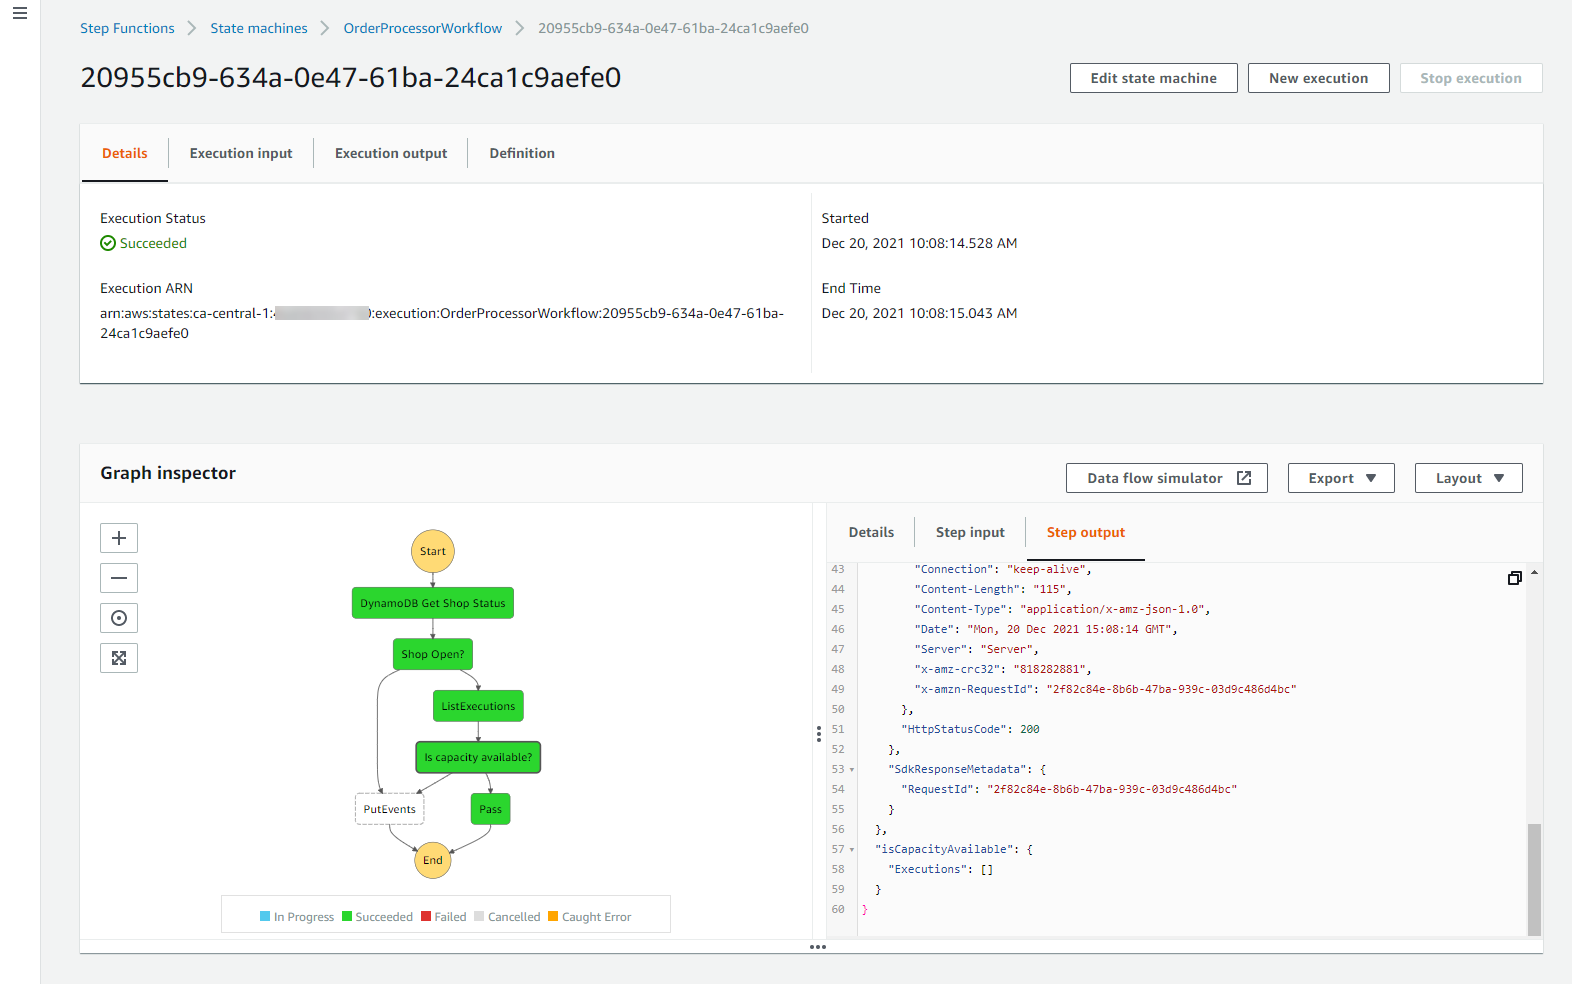
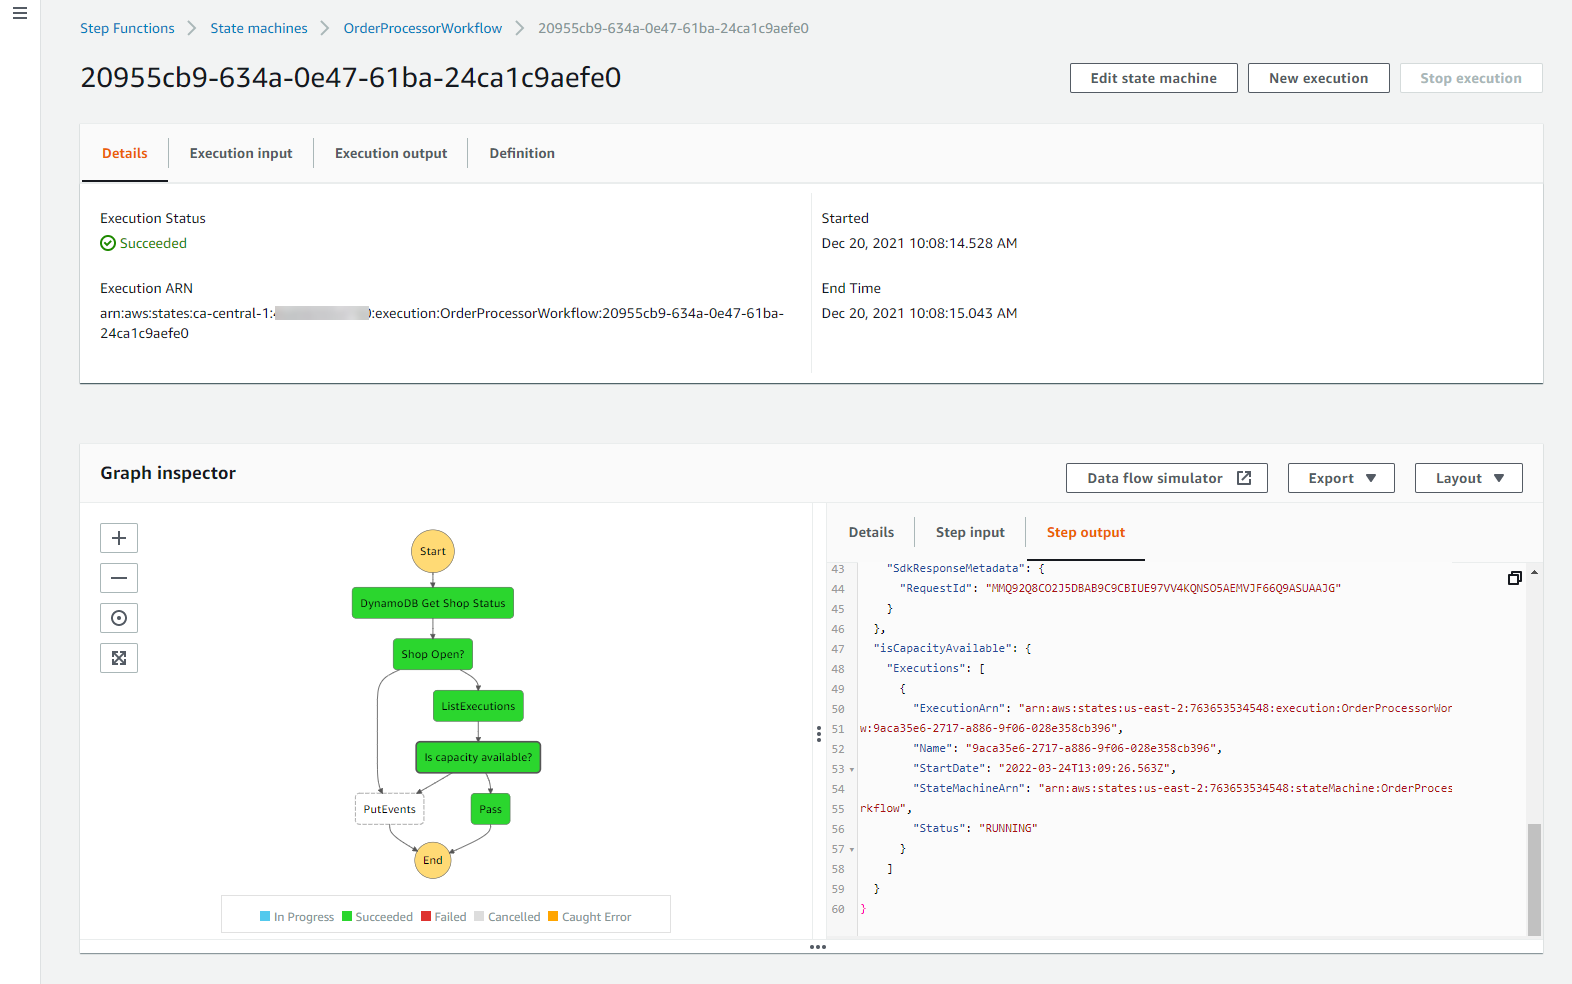
Instructions updates

Changed region(s): [[0.5611, 0.5488, 0.9039, 0.8841]]

diff --git a/instructions/content/1b-workflow/6-WaitForOrder/_index.en.md b/instructions/content/1b-workflow/6-WaitForOrder/_index.en.md
@@ -54,13 +54,13 @@ In this section, you add an EventBridge PutEvents state that emits an event when
 ```
 ![Drag UpdateItem to designer](../images/se-mod1-wait2.png)
 
-3. Choose the *Output* tab. Here, you will modify the state's output to include the result from the DynamoDB query:
+6. Choose the *Output* tab. Here, you will modify the state's output to include the result from the DynamoDB query:
 - Check the box *Add original input to output using ResultPath*.
-- In the dropdown, select *Discard result and keep original text*.
+- In the dropdown, select *Discard result and keep original input*.
 
 ![Drag UpdateItem to designer](../images/se-mod1-wait3.png)
 
-4. Choose the *Error handling* tab. Here, you add a catch state to handle any errors. In *Catch errors*, choose **Add new catcher**.
+7. Choose the *Error handling* tab. Here, you add a catch state to handle any errors. In *Catch errors*, choose **Add new catcher**.
 - For *Comment*, enter `Customer timed out`.
 - For *Errors*, select **States.Timeout**.
 - For *Fallback state*, select **Add new state**.
@@ -68,13 +68,13 @@ In this section, you add an EventBridge PutEvents state that emits an event when
 
 ![Drag UpdateItem to designer](../images/se-mod1-wait4.png)
 
-5. On the *Error handling tab*, for *Heartbeat*, enter `900` seconds. This means that the workflow will time out if the callback is not received within 15 minutes.
+8. On the *Error handling tab*, for *Heartbeat*, enter `900` seconds. This means that the workflow will time out if the callback is not received within 15 minutes.
 
-6. With the *Flow* tab selected on the left, drag the Pass state action from the list to the empty *Drop state here* placeholder in the designer.
+9. With the *Flow* tab selected on the left, drag the Pass state action from the list to the empty *Drop state here* placeholder in the designer.
 
 ![Drag UpdateItem to designer](../images/se-mod1-wait5b.png)
 
-7. With the state selected, the attribute panel on the right shows the configuration for this state.
+10. With the state selected, the attribute panel on the right shows the configuration for this state.
 - In the *Configuration tab*, for *State Name*, enter `Customer timedout`.
 - In the *Output tab*, for *Result*, enter `"Customer timedout"`.
 
@@ -170,7 +170,7 @@ In this section, you will test the changes to the workflow.
 
 ![Execution results](../images/se-mod1-wait12.png)
 
-5. Use the SendTaskSuccess API callback to the workflow with the task token and continue execution. In a terminal, enter the following command, replacing `YOUR_TASK_TOKEN` with the token value:
+5. Use the SendTaskSuccess API callback to the workflow with the task token and continue execution. In the Cloud9 tab, in the terminal panel, enter the following command, replacing `YOUR_TASK_TOKEN` with the token value:
 
 ```
 aws stepfunctions send-task-success  --task-output '{"orderId":1}' --task-token YOUR_TASK_TOKEN
@@ -181,7 +181,7 @@ Execution continues to the next state waiting for a callback.
 
 6. In the *Execution event history* panel, open the *TaskScheduled* event for *Emit - Awaiting completion TT*. This displays the payload for this event. Copy the *TaskToken* value to a scratch pad.
 
-7. Use the SendTaskSuccess API callback to the workflow with the task token and continue execution. In a terminal, enter the following command, replacing `YOUR_TASK_TOKEN` with the token value:
+7. Use the SendTaskSuccess API callback to the workflow with the task token and continue execution. In the Cloud9 tab, in the terminal panel, enter the following command, replacing `YOUR_TASK_TOKEN` with the token value:
 
 ```
 aws stepfunctions send-task-success  --task-output '{"orderId":1}' --task-token YOUR_TASK_TOKEN

diff --git a/instructions/content/1-workflow/4-Capacity/_index.en.md b/instructions/content/1-workflow/4-Capacity/_index.en.md
@@ -42,7 +42,7 @@ In this section, you use an AWS SDK integration in Step Functions to query the s
 ```
 ![Drag GetItem to designer](../images/se-mod1-capacity3.png)
 
-3. Choose the *Output* tab. Here, you will modify the state's output to include the result from the SDK call:
+6. Choose the *Output* tab. Here, you will modify the state's output to include the result from the SDK call:
 - Check the box *Add original input to output using ResultPath*.
 - Ensure *Combine original input with result* is selected in the dropdown, then enter `$.isCapacityAvailable` in the value textbox.
 
@@ -62,7 +62,7 @@ The workflow must branch logic depending on the value returned by the ListExecut
 
 ![Edit choice state](../images/se-mod1-capacity6.png)
 
-5. In the *Conditions for rule #1* panel, specify the rule that will determine if the store is closed:
+3. In the *Conditions for rule #1* panel, specify the rule that will determine if the store is closed:
 - For *Not*, **leave blank** in the dropdown.
 - For *Variable*, enter `$.isCapacityAvailable.Executions[20]`.
 - For *Operator*, select **is present**.
@@ -72,15 +72,15 @@ The workflow must branch logic depending on the value returned by the ListExecut
 
 ![Edit conditions](../images/se-mod1-capacity7.png)
 
-6. Change *Then next state is* to **EventBridge PutEvents**. Choose **Close**.
+4. Change *Then next state is* to **EventBridge PutEvents**. Choose **Close**.
 
 ![Edit conditions](../images/se-mod1-capacity8.png)
 
-7. For *State name*, enter **Is capacity available?**.
+5. For *State name*, enter `Is capacity available?`.
 
 ![Edit conditions](../images/se-mod1-capacity9.png)
 
-8. Check the Amazon States Language (ASL) definition by choosing the **Definition** toggle button above the designer. The ASL appears as:
+6. Check the Amazon States Language (ASL) definition by choosing the **Definition** toggle button above the designer. The ASL appears as:
 
 ```
 {
@@ -153,13 +153,13 @@ The workflow must branch logic depending on the value returned by the ListExecut
   }
 }
 ```
-9. Choose **Apply and exit**.
+7. Choose **Apply and exit**.
 
-10. In the *Edit OrderProcessorWorkflow* page, choose **Save**.
+8. In the *Edit OrderProcessorWorkflow* page, choose **Save**.
 
 ![Drag GetItem to designer](../images/se-mod1-capacity10.png)
 
-11. In the *IAM role* popup, choose **Save anyway**. The IAM role you are using was deployed in the setup module and has the necessary permissions.
+9. In the *IAM role* popup, choose **Save anyway**. The IAM role you are using was deployed in the setup module and has the necessary permissions.
 
 ![IAM role warning](../images/iam-role-warning.png)
 
@@ -176,7 +176,7 @@ In this section, you will test the changes to the workflow.
 
 ![Execution results](../images/se-mod1-capacity11.png)
 
-3. Choose the *Step output* on the right side to see the output path for the choice state. In this, the Executions array in the isCapacityAvailable attribute is empty. This means there are no active executions, so there is capacity available, causing the workflow to go to the pass state.
+3. Choose the *Step output* on the right side to see the output path for the choice state. In this case, the Executions array in the isCapacityAvailable attribute shows one item. This means there is one active execution, so there is capacity available, causing the workflow to go to the pass state.
 
 ### Recap
 

diff --git a/instructions/content/1-workflow/3-ShopOpen/_index.en.md b/instructions/content/1-workflow/3-ShopOpen/_index.en.md
@@ -78,11 +78,15 @@ The workflow must branch logic depending on the value read from the DynamoDB tab
 
 ![Drag Pass state to designer](../images/se-mod1-open8.png)
 
-4. You have now defined a logic branch where one result routes to EventBridge and the other to the pass state. Next, define the decision logic in the choice state. Click on the choice state to open its attributes in the right side panel. For *Rule #1*, click on the edit icon. Choose **Add conditions**.
+4. You have now defined a logic branch where one result routes to EventBridge and the other to the pass state. Next, define the decision logic in the choice state. Click on the choice state to open its attributes in the right side panel. For *Rule #1*, click on the edit icon.
+
+![Edit rule icon](../images/se-mod1-edit-rule.png)
+
+5. Choose **Add conditions**.
 
 ![Edit choice state](../images/se-mod1-open9.png)
 
-5. In the *Conditions for rule #1* panel, specify the rule that will determine if the store is closed:
+6. In the *Conditions for rule #1* panel, specify the rule that will determine if the store is closed:
 - For *Not*, select **NOT** in the dropdown.
 - For *Variable*, enter `$.GetStore.Item.storeOpen.BOOL`. This JSONPath syntax specifies the storeOpen Boolean attribute from the DynamoDB query response.
 - For *Operator*, select **is equal to**.
@@ -91,11 +95,11 @@ The workflow must branch logic depending on the value read from the DynamoDB tab
 
 ![Edit conditions](../images/se-mod1-open10.png)
 
-6. For *State name*, add **Shop Open?**.
+7. For *State name*, add `Shop Open?`.
 
 ![Edit state name](../images/se-mod1-open11.png)
 
-7. Check the Amazon States Language (ASL) definition by choosing the **Definition** toggle button above the designer. The ASL appears as:
+8. Check the Amazon States Language (ASL) definition by choosing the **Definition** toggle button above the designer. The ASL appears as:
 
 ```
 {
@@ -146,13 +150,13 @@ The workflow must branch logic depending on the value read from the DynamoDB tab
   }
 }
 ```
-8. Choose **Apply and exit**.
+9. Choose **Apply and exit**.
 
 ![Drag GetItem to designer](../images/se-mod1-open12.png)
 
-9. In the *Edit OrderProcessorWorkflow* page, choose **Save**.
+10. In the *Edit OrderProcessorWorkflow* page, choose **Save**.
 
-10. In the *IAM role* popup, choose **Save anyway**. The IAM role you are using was deployed in the setup module and has the necessary permissions.
+11. In the *IAM role* popup, choose **Save anyway**. The IAM role you are using was deployed in the setup module and has the necessary permissions.
 
 ![IAM role warning](../images/iam-role-warning.png)
 

diff --git a/instructions/content/1b-workflow/8-Testing/_index.en.md b/instructions/content/1b-workflow/8-Testing/_index.en.md
@@ -118,13 +118,13 @@ While Step Functions can scale to ten of thousands of current executions, the co
 
 2. From the left-hand menu, select *State machine* and choose **OrderProcessorWorkflow** from the list. Copy the ARN value to a scratchpad - you will need this value later. Choose **Edit**.
 
-3. Use the [StartExecution API](https://docs.aws.amazon.com/cli/latest/reference/stepfunctions/start-execution.html) to start a new workflow. In a terminal, enter the following command, replacing `YOUR_STATE_MACHINE_ARN` with the ARN copied in the previous step:
+3. Use the [StartExecution API](https://docs.aws.amazon.com/cli/latest/reference/stepfunctions/start-execution.html) to start a new workflow. In the Cloud9 tab, in the terminal panel, enter the following command, replacing `YOUR_STATE_MACHINE_ARN` with the ARN copied in the previous step:
 
 ```
 aws stepfunctions start-execution --state-machine-arn YOUR_STATE_MACHINE_ARN --input "{\"detail\":{\"orderId\":\"1\",\"userId\":\"testuser\"}}"
 ```
 
-4. Run the same command 20 more times. The capacity configured for the shop is 20. On the 21st execution, the capacity check in the workflow will fail.
+4. Run the same command 25 more times. The capacity configured for the shop is 20. After the 20th execution, the capacity check in the workflow will fail for subsequent requests.
 
 5. In the state machine view in the console, the *Graph inspector* shows the workflow path taken as a result of capacity being unavailable:
 

diff --git a/instructions/content/0-setup/5-deploy/_index.en.md b/instructions/content/0-setup/5-deploy/_index.en.md
@@ -86,7 +86,7 @@ While you wait, here's what the custom parameters do:
 
 - **AppName**: Used by all the resources to prefix variables and provide common naming, to make it easier to identify everything used by the application.
 - **Service**: The name of this service stack.
-- **LogRetentionInDays**: Defines how many days CloudWatch should keep log files. By default, this has no limit.
+- **LogRetentionInDays**: Defines how many days CloudWatch should keep log files. By default, this has no limit. The default used in this stack is 14 days.
 - **Source**: The source name used by events in this application. This helps us filter only for events produced by microservices in this workload.
 
 The *TimeInterval*, *CodeLength*, and *TokensPerBucket* values define how the barcode functionality works in the Display App in the frontend. With the default values here, the barcode represents a 10-character unique code that provides 10 drinks every 5 minutes. We'll cover this in more detail in the frontends section.
@@ -100,7 +100,7 @@ Copy these outputs from the stack to a scratch file, notepad or text editor for 
 5. SAM has now used CloudFormation to deploy a stack of backend resources which will be used for the rest of the workshop.
 
 * Multiple Lambda functions
-* 3 S3 buckets
+* An S3 bucket
 * A DynamoDB table
 * A Cognito UserPool
 * An AWS IoT thing

diff --git a/instructions/content/1b-workflow/5-OrderNumber/_index.en.md b/instructions/content/1b-workflow/5-OrderNumber/_index.en.md
@@ -53,8 +53,6 @@ In this section, you use a DynamoDB integration in Step Functions to increment a
 ![Configure UpdateItem](../images/se-mod1-ordernum2.png)
 
 6. Choose the *Output* tab. Here, you will modify the state's output to include the result from the DynamoDB query:
-- Check the box *Add original input to output using ResultPath*.
-- In the value textbox, enter `$.Order.Payload`.
 - Check the box *Transform result with ResultSelector*.
 - In the value textbox, enter:
 
@@ -63,6 +61,9 @@ In this section, you use a DynamoDB integration in Step Functions to increment a
   "orderNumber.$": "$.Attributes.IDvalue.N"
 }
 ```
+- Check the box *Add original input to output using ResultPath*.
+- Ensure the dropdown is set to *Combine original input with result*.
+- In the value textbox, enter `$.Order.Payload`.
 
 ![Drag GetItem to designer](../images/se-mod1-ordernum3.png)
 

diff --git a/instructions/content/1b-workflow/7-Events/_index.en.md b/instructions/content/1b-workflow/7-Events/_index.en.md
@@ -112,7 +112,7 @@ In this section, you update the EventBridge PutEvents state that was created ear
   "Entries": [
     {
       "Detail": {
-        "Message": "The Step functions workflow checks if the shop is open and has capacity to serve a new order by invoking a Lambda function that queries the Shop conig service. The shop was not ready, and so a 'not ready' event is emitted to cancel the current order.",
+        "Message": "The Step functions workflow checks if the shop is open and has capacity to serve a new order by invoking a Lambda function that queries the Shop config service. The shop was not ready, and so a 'not ready' event is emitted to cancel the current order.",
         "userId.$": "$.detail.userId"
       },
       "DetailType": "OrderProcessor.ShopUnavailable",

diff --git a/instructions/content/2-events/1-Overview/_index.en.md b/instructions/content/2-events/1-Overview/_index.en.md
@@ -9,7 +9,7 @@ In the simplest terms, an event is a signal that a system's state has changed. I
 
 Events are:
 * Facts: they are based on something that happened.
-* Immutable: they cannot be undone. For example, an event could be a coffee order. If you cancel the order, that is a separate cancellation event, and do not change the contents of the original event.
+* Immutable: they cannot be undone. For example, an event could be a new coffee order. If you cancel the order, that is a separate cancellation event, and does not change the contents of the original event.
 * Observable: microservices can subscribe to events they care about.
 * Temporal: the time of an event matters.
 

diff --git a/instructions/content/2-events/5-order-manager-workflow/_index.en.md b/instructions/content/2-events/5-order-manager-workflow/_index.en.md
@@ -44,7 +44,7 @@ This was done by the *Resume Order Processor* step.
 
 See what happens if an item is ordered that is not on the menu:
 
-1. Go to the *OrderManager* workflow in the Step Functions console,
+1. Go to the *OrderManagerStateMachine* in the Step Functions console.
 1. Choose *Start execution*, enter the following into the **input** text area and choose *Start execution*:
 
 ```
